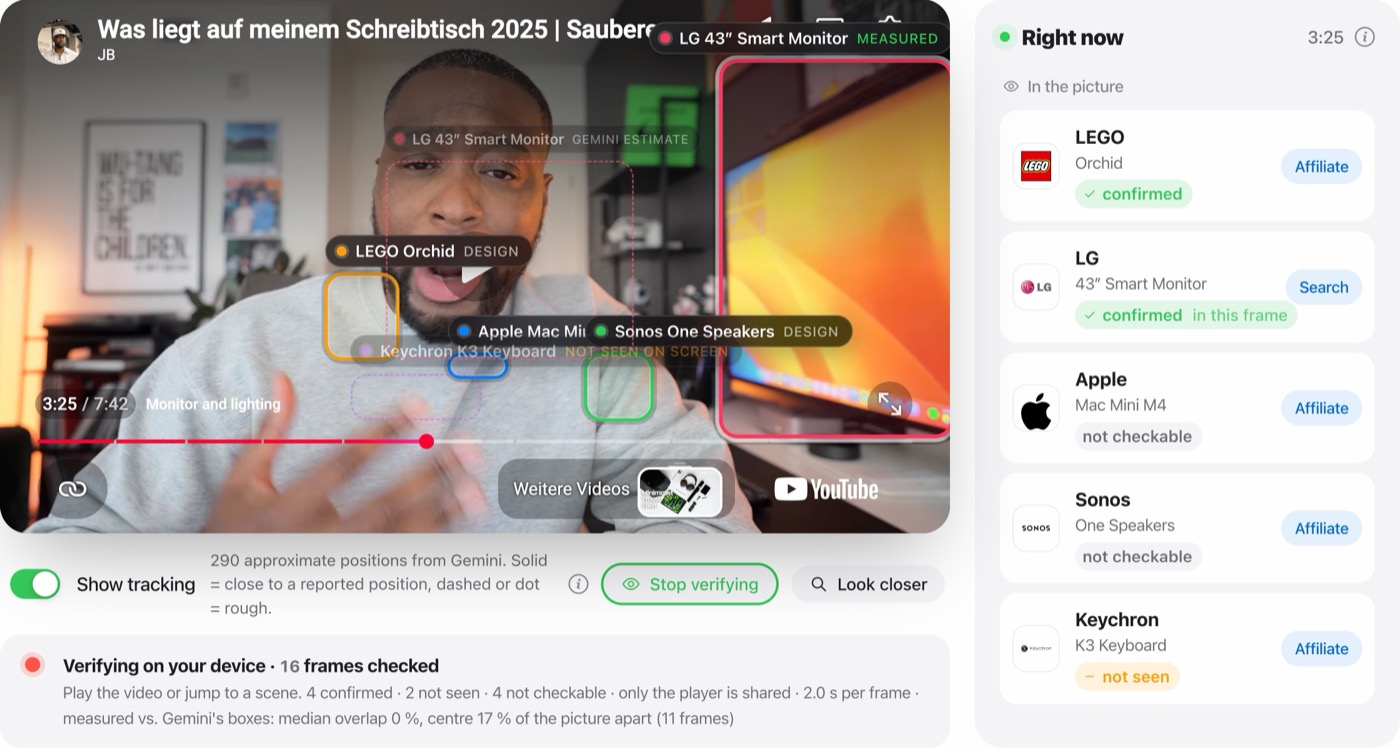
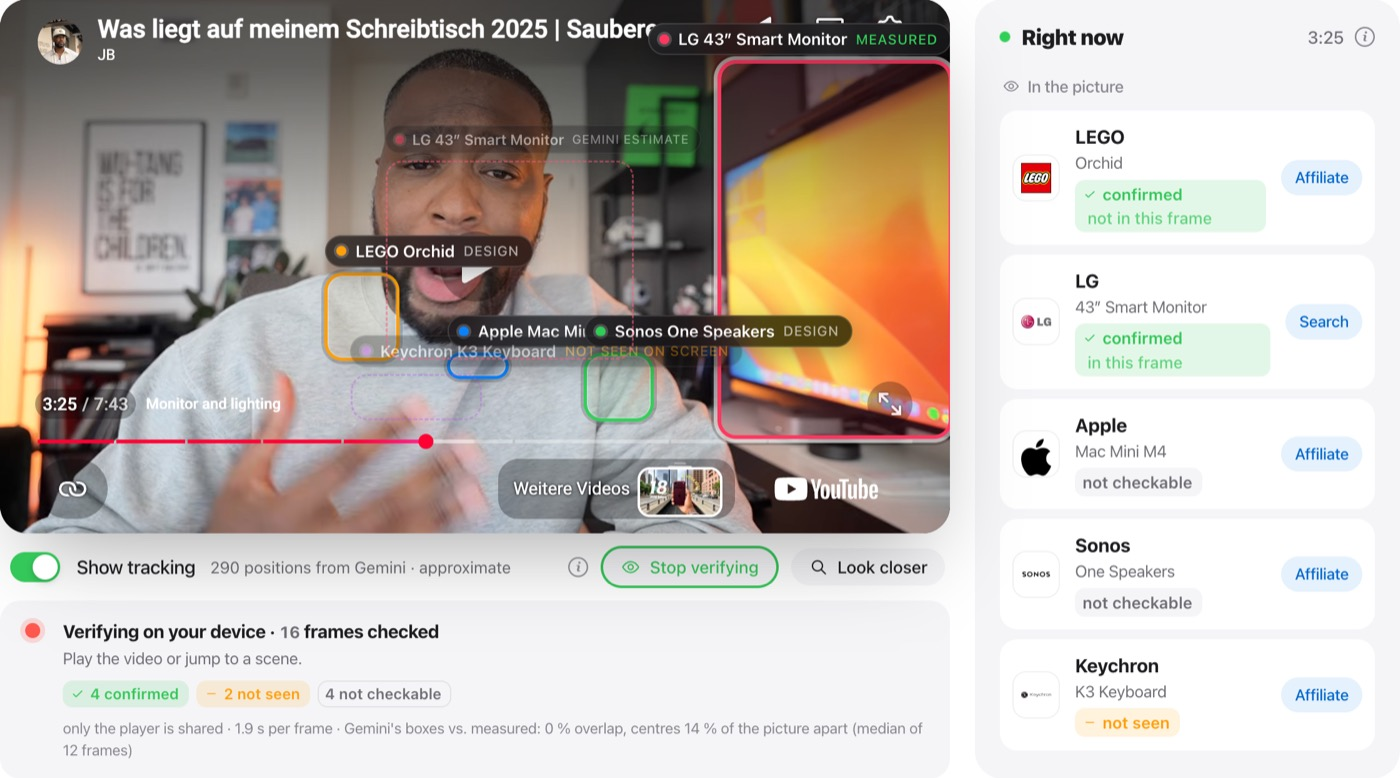
Verify status card in the style of the other cards: title, the verdicts as the same pills as on the product cards (zeros left out), one quiet detail line; pills wrap inside narrow Right-now cards; grey pill visible on the grey card; tracking hint on one line (solid/dashed explained in its (i)); READ

diff --git a/public/js/app.js b/public/js/app.js
@@ -526,7 +526,7 @@ function bindTrackSwitch(tracker) {
   sw.onchange = () => { prefs.tracking = sw.checked; savePrefs(); tracker.setEnabled(sw.checked); };
   const hint = $("#trackHint");
   if (hint) hint.dataset.base = hint.textContent = !cov.withBox ? "No positions in this analysis – boxes appear for videos analysed from 21 Nov on."
-    : cov.keys > cov.withBox * 1.5 ? `${cov.keys} approximate positions from Gemini. Solid = close to a reported position, dashed or dot = rough.`
+    : cov.keys > cov.withBox * 1.5 ? `${cov.keys} positions from Gemini · approximate`  // solid / dashed / dot is explained in the (i) next to it
     // one position per appearance: either an analysis from before the keyframe prompt, or Gemini gave only one keyframe
     // (seen 21 Nov on a 13-min desk tour: 23 keyframes for 21 appearances) – so no "(older analysis)" claim here
     : `${cov.withBox} of ${cov.all} appearances located, about one position each – mostly shown as dots. Look closer adds more.`;
@@ -767,15 +767,19 @@ function renderVerifyStatus(v) {
   btn.classList.toggle("on", !!v?.running);
   btn.querySelector("span").textContent = v?.running ? "Stop verifying" : "Verify on screen";
   if (!v || (v.phase === "idle" && !v.hasResults)) { box.hidden = true; return; }
-  const s = v.summary(), dev = s.dev.n ? ` · measured vs. Gemini's boxes: median overlap ${Math.round(s.dev.iou * 100)} %, centre ${s.dev.dist.toFixed(0)} % of the picture apart (${s.dev.n} frames)` : "";
-  const counts = `${s.confirmed} confirmed · ${s.not_seen} not seen · ${s.not_checkable} not checkable${s.checking ? ` · ${s.checking} checking` : ""}`;
+  // layout like the other status cards: title, the three verdicts as the same pills as on the cards, one quiet detail line
+  const s = v.summary();
+  const chip = (k, n, ic) => n ? `<span class="vpill v-${k}">${ic ? icon(ic) : ""}${n} ${V_LABEL[k]}</span>` : ""; // zeros left out
+  const chips = `<div class="vs-chips">${chip("confirmed", s.confirmed, "check")}${chip("not_seen", s.not_seen, "minus")}${chip("not_checkable", s.not_checkable)}${chip("checking", s.checking)}</div>`;
   const how = { element: "only the player is shared", region: "player area of this tab", tab: "this tab, cut to the player" }[v.mode] || "";
+  const dev = s.dev.n ? `Gemini's boxes vs. measured: ${Math.round(s.dev.iou * 100)} % overlap, centres ${s.dev.dist.toFixed(0)} % of the picture apart (median of ${s.dev.n} frames)` : "";
+  const detail = (parts) => { const t = parts.filter(Boolean).join(" · "); return t ? `<small>${t}</small>` : ""; };
   box.hidden = false;
   box.className = `verify-status ${v.running ? "run" : ""}`;
   box.innerHTML = v.phase === "asking" ? `<span class="spinner"></span><div><b>Waiting for your choice</b><span>${esc(v.message)}</span></div>`
     : v.phase === "loading" ? `<span class="spinner"></span><div><b>Loading the models on your device</b><span>First time about 110 MB, then from the browser cache.</span></div>`
-    : v.running ? `<span class="rec"></span><div><b>Verifying on your device · <span class="num">${s.frames}</span> frames checked</b><span>${v.message ? esc(v.message) : `Play the video or jump to a scene. ${counts} · ${how}${v.msPerFrame ? ` · ${(v.msPerFrame / 1000).toFixed(1)} s per frame` : ""}`}${dev}</span></div>`
-    : `${icon("eye")}<div><b>Verified on screen · ${s.frames} frames</b><span>${counts}${dev}${v.message ? ` · ${esc(v.message)}` : ""}. Nothing was uploaded.</span></div>`;
+    : v.running ? `<span class="rec"></span><div><b>Verifying on your device · <span class="num">${s.frames}</span> frames checked</b><span>${v.message ? esc(v.message) : "Play the video or jump to a scene."}</span>${chips}${detail([how, v.msPerFrame && `${(v.msPerFrame / 1000).toFixed(1)} s per frame`, dev])}</div>`
+    : `${icon("eye")}<div><b>Verified on screen · ${s.frames} frames</b><span>${v.message ? `${esc(v.message)} · ` : ""}Nothing was uploaded.</span>${chips}${detail([dev])}</div>`;
 }
 
 /** Permission sheet before the browser's own "share this tab" dialog – what happens, and that nothing leaves the device. */

diff --git a/public/css/app.css b/public/css/app.css
@@ -642,10 +642,14 @@ input[type=range]::-moz-range-thumb { width: 24px; height: 24px; border-radius: 
 .verify-status b { display: block; font-size: 14.5px; } .verify-status span { color: var(--text-2); font-size: 13px; }
 .verify-status > .icon { width: 20px; height: 20px; margin-top: 1px; color: var(--green); }
 .verify-status .spinner { margin-top: 1px; }
+.verify-status .vs-chips { display: flex; flex-wrap: wrap; gap: 6px; margin-top: 8px; } .verify-status .vs-chips:empty { display: none; } .verify-status .vs-chips .vpill { margin: 0; font-size: 12px; }
+.verify-status .vpill.v-not_checkable { background: transparent; box-shadow: inset 0 0 0 1px var(--line); } /* grey pill on a grey card */
+.verify-status small { display: block; margin-top: 8px; font-size: 12px; line-height: 1.45; color: var(--text-3); }
 .verify-status .rec { width: 12px; height: 12px; margin: 4px; border-radius: 50%; background: #ff3b30; box-shadow: 0 0 0 4px rgba(255, 59, 48, .2); animation: blink 1.6s ease-in-out infinite; }
 .vpill { display: inline-flex; align-items: center; gap: 4px; width: fit-content; margin-top: 4px; padding: 2px 8px 2px 6px; border-radius: 999px; font-size: 11.5px; font-weight: 600; letter-spacing: -.005em; white-space: nowrap; }
 .vpill .icon { width: 12px; height: 12px; }
 .vpill em { font-style: normal; font-weight: 500; opacity: .75; margin-left: 4px; }
+.vpill { max-width: 100%; flex-wrap: wrap; row-gap: 0; border-radius: 8px; } /* 'confirmed · type  not in this frame' wraps inside a narrow Right-now card */
 .vpill.v-confirmed { color: var(--green); background: color-mix(in srgb, var(--green) 14%, transparent); }
 .vpill.v-not_seen { color: var(--orange); background: color-mix(in srgb, var(--orange) 14%, transparent); }
 .vpill.v-not_checkable, .vpill.v-checking { color: var(--text-2); background: var(--tile); }
